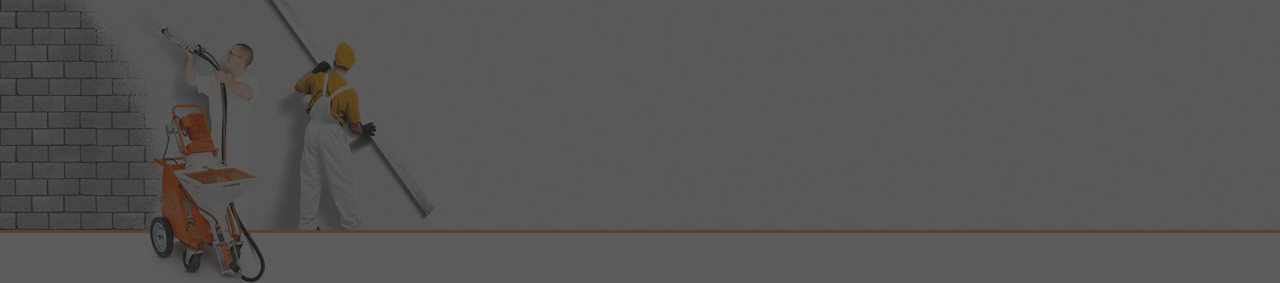
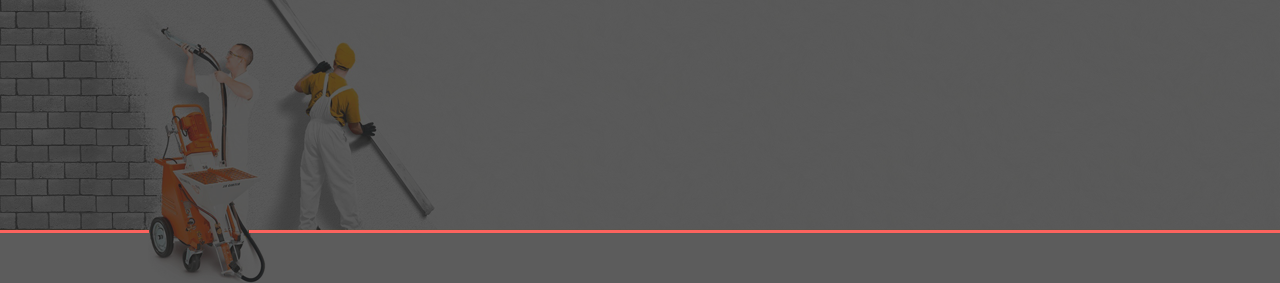
Add: greeting section

Changed region(s): [[0.1875, 0.7915, 1.0, 0.8481], [0.0, 0.7915, 0.125, 0.8481]]

diff --git a/src/index.html b/src/index.html
@@ -54,7 +54,22 @@
 
     </section>
   </div>
-  <main>
+  <main class="main">
+    <section class="greeting">
+      <div class="container">
+        <div class="greeting__header">
+          <h2 class="greeting__title">Здравствуйте!</h2>
+          <div class="greeting__text">
+            <p>Если Вы посетили наш сайт, значит у Вас, как и у многих людей,
+               купивших квартиру <br> или другую недвижимость, возникла проблема:
+               «Как правильно и в какой <br> последовательности сделать ремонт».
+                Ремонт включает в себя такие типы работ, как...</p>
+          </div>
+          <input class="greeting__button button" type="button" value="Подробнее">
+          </input>
+        </div>
+      </div>        
+    </section>
   </main>
 
   <footer class="footer">

diff --git a/src/scss/layout/greeting.scss b/src/scss/layout/greeting.scss
@@ -1,0 +1,43 @@
+.greeting {
+    padding: 5rem 0;
+    font-family: "Gotham Pro", sans-serif;
+    display: flex;
+    flex-direction: column;
+    align-items: center;
+
+    &__header {
+        width: 100%;
+        max-width: 1400px;
+        margin: 0 5rem 0;  
+    }
+
+    &__title {
+        display: flex;
+        flex-direction: row;
+        margin-bottom: 20px;    
+    }
+
+    &__title:before {
+        content: "";
+        display: block;
+        width: 5px;
+        height: 30px;
+        background-color: $coral;
+        margin-right: 10px;
+    }
+
+    &__button {
+        height: 40px;
+        width: 200px;
+    }
+
+    &__text {
+        margin-bottom: 20px;
+        font-size: large;
+    }
+
+
+
+}
+
+

diff --git a/src/scss/main.scss b/src/scss/main.scss
@@ -4,6 +4,7 @@
 @import './layout/header.scss';
 @import './layout/section-promo.scss';
 @import './layout/footer.scss';
+@import './layout/greeting.scss';
 
 * {
   margin: 0;
